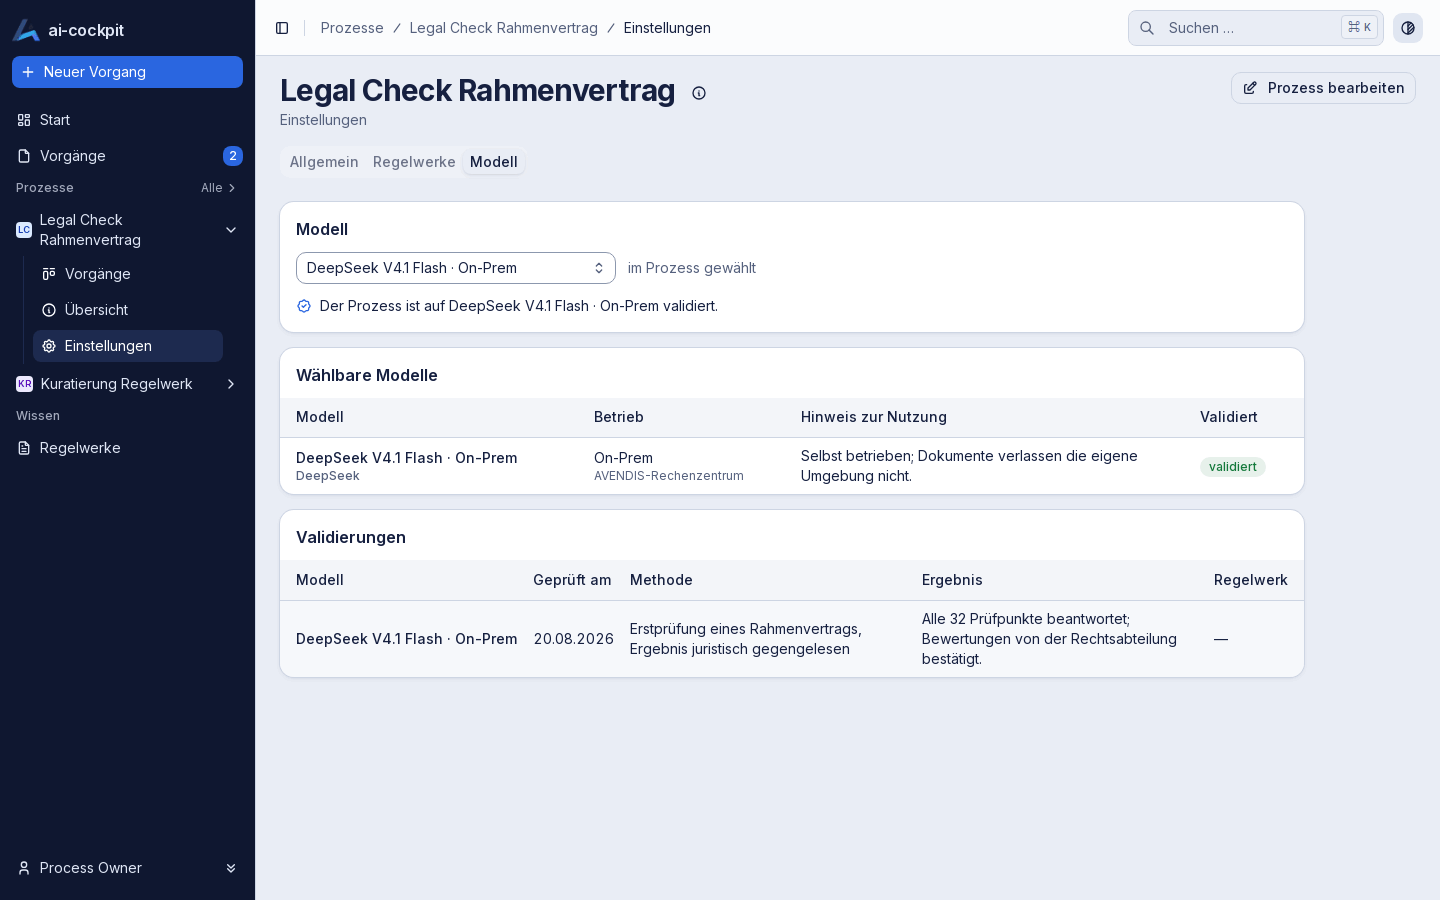
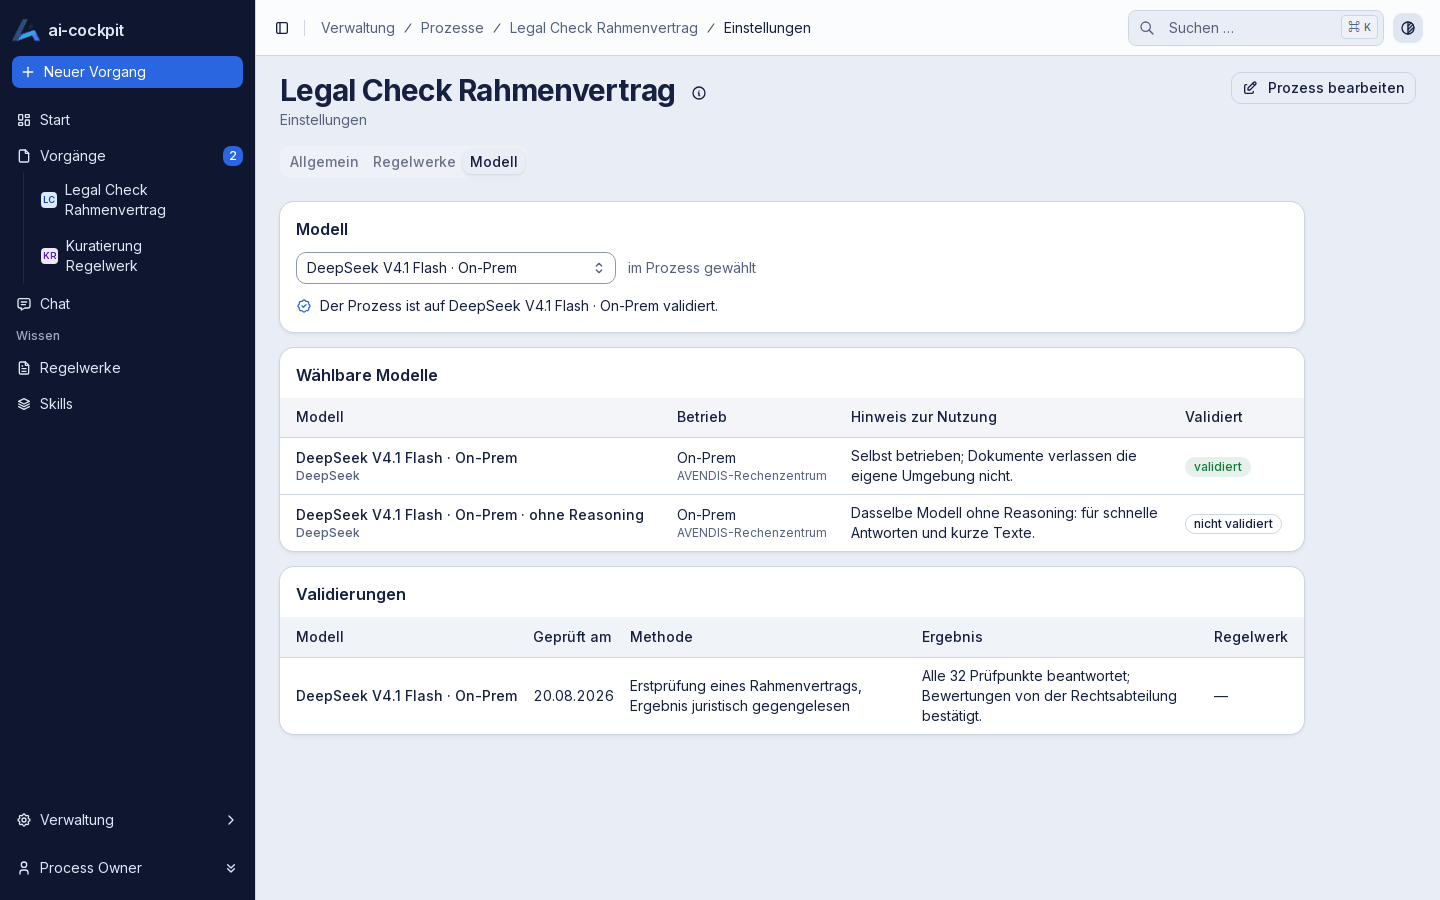
Skills and chat: sections, roadmap, screenshots of the new navigation

diff --git a/features.html b/features.html
@@ -130,7 +130,7 @@
             <h2>An overview for everyone, settings for the owner.</h2>
             <p>Each process has a page that says what it does, which rulesets it checks against, which model it uses and what it consumed. Process owners change name, rulesets and model in the settings.</p>
             <ul class="checks">
-              <li>Processes appear in the navigation by themselves, each with its cases, overview and settings</li>
+              <li>Each process is a filter of the cases in the navigation; setting it up has its own area for key users</li>
               <li>Each role sees the processes of its areas</li>
               <li>Token use of the last 30 days and in total</li>
             </ul>
@@ -160,6 +160,47 @@
           <div class="shot">
             <div class="shot-bar" aria-hidden="true"><i></i><i></i><i></i><span>ai-cockpit · Modell</span></div>
             <img src="assets/img/model.png" width="1440" height="900" loading="lazy" alt="Model settings of a process with the chosen model, selectable models and validations" />
+          </div>
+        </figure>
+        </div>
+      </section>
+
+      <section class="section">
+        <div class="wrap split">
+          <div>
+            <p class="eyebrow">Skills</p>
+            <h2>The prompts people keep, in one place and with a history.</h2>
+            <p>A skill is what an AI tool loads when a task calls for it: a description of when to use it, the instructions, and further files. Everyone can read a skill, copy it or download its SKILL.md. Whoever maintains skills writes them as one text in an editor; two bars inside the text mark where the description and the instructions begin and are dragged to move the boundary.</p>
+            <ul class="checks">
+              <li>Import a Markdown file — the bars start at a first guess</li>
+              <li>Every change is a version: the author says why, the model writes what changed</li>
+              <li>Step through older versions; leaving with unsaved changes asks first</li>
+            </ul>
+          </div>
+          <figure>
+          <div class="shot">
+            <div class="shot-bar" aria-hidden="true"><i></i><i></i><i></i><span>ai-cockpit · Skills</span></div>
+            <img src="assets/img/skill-editor.png" width="1440" height="900" loading="lazy" alt="The editor of a skill: one text with a bar for the description and a bar for the instructions, each part in its own colour" />
+          </div>
+        </figure>
+        </div>
+      </section>
+      <section class="section white">
+        <div class="wrap split reverse">
+          <div>
+            <p class="eyebrow">Chat</p>
+            <h2>Ask the rulesets instead of searching them.</h2>
+            <p>Choose which rulesets to ask and put a question. The answer comes from their entries and names them; each one is a link. The chat is a way to look things up, not a general assistant: it answers only from the chosen knowledge.</p>
+            <ul class="checks">
+              <li>The conversation is not stored — it lives in the tab and ends with it</li>
+              <li>On record is the use: who, when, which model, how many tokens</li>
+              <li>Runs on a fast model without reasoning: answers in a few seconds</li>
+            </ul>
+          </div>
+          <figure>
+          <div class="shot">
+            <div class="shot-bar" aria-hidden="true"><i></i><i></i><i></i><span>ai-cockpit · Chat</span></div>
+            <img src="assets/img/chat.png" width="1440" height="900" loading="lazy" alt="The chat: two rulesets chosen, a question about liability and an answer with the entry it rests on as a source" />
           </div>
         </figure>
         </div>

diff --git a/roadmap.html b/roadmap.html
@@ -61,6 +61,8 @@
                 <li>Administration of users, areas and models</li>
                 <li>Process overview and settings</li>
                 <li>Token use per run, case and process</li>
+                <li>Skills with versions, an editor and import</li>
+                <li>Chat that answers from the rulesets</li>
                 <li>Delivery as containers, health endpoint</li>
               </ul>
             </article>
@@ -112,9 +114,9 @@
             </p>
           </div>
           <div class="grid four">
-            <article class="card"><h3>Chat with chosen knowledge</h3><p>A dialogue page where you pick the knowledge bases to write with. The dialogue is a way into the platform, not its purpose: it runs on the chosen model and its use is recorded.</p></article>
-            <article class="card"><h3>Skill management</h3><p>Skills maintained in one place and exported in the formats of other tools, such as Claude Code and Open WebUI.</p></article>
-            <article class="card"><h3>Any model</h3><p>Processes, dialogues and skills run on the model you choose; the gateway stays the only connection to models.</p></article>
+            <article class="card"><h3>More knowledge to ask</h3><p>The chat answers from the rulesets today. Next come further knowledge bases and assistants for single areas, each on the chosen model and with its use on record.</p></article>
+            <article class="card"><h3>Skill exports</h3><p>Skills are maintained on the platform today. Next they leave it in the formats of other tools, such as Claude Code and Open WebUI.</p></article>
+            <article class="card"><h3>Processes built in a dialogue</h3><p>An administrator describes a small process to the model, which builds and tests it in an isolated sandbox with given means. Later the process runs there with its inputs and files.</p></article>
             <article class="card"><h3>Usage and audit across everything</h3><p>One overview of usage per process, dialogue, skill and person, traceable like every case.</p></article>
           </div>
         </div>

diff --git a/index.html b/index.html
@@ -153,6 +153,7 @@
               <li>A move that needs a reason asks for it before anything changes</li>
               <li>What waits for you is on the start page, and counted in the navigation</li>
               <li>A new case is one click away from every page</li>
+              <li>Skills and a chat with the rulesets sit next to the work</li>
             </ul>
           </div>
           <figure>
